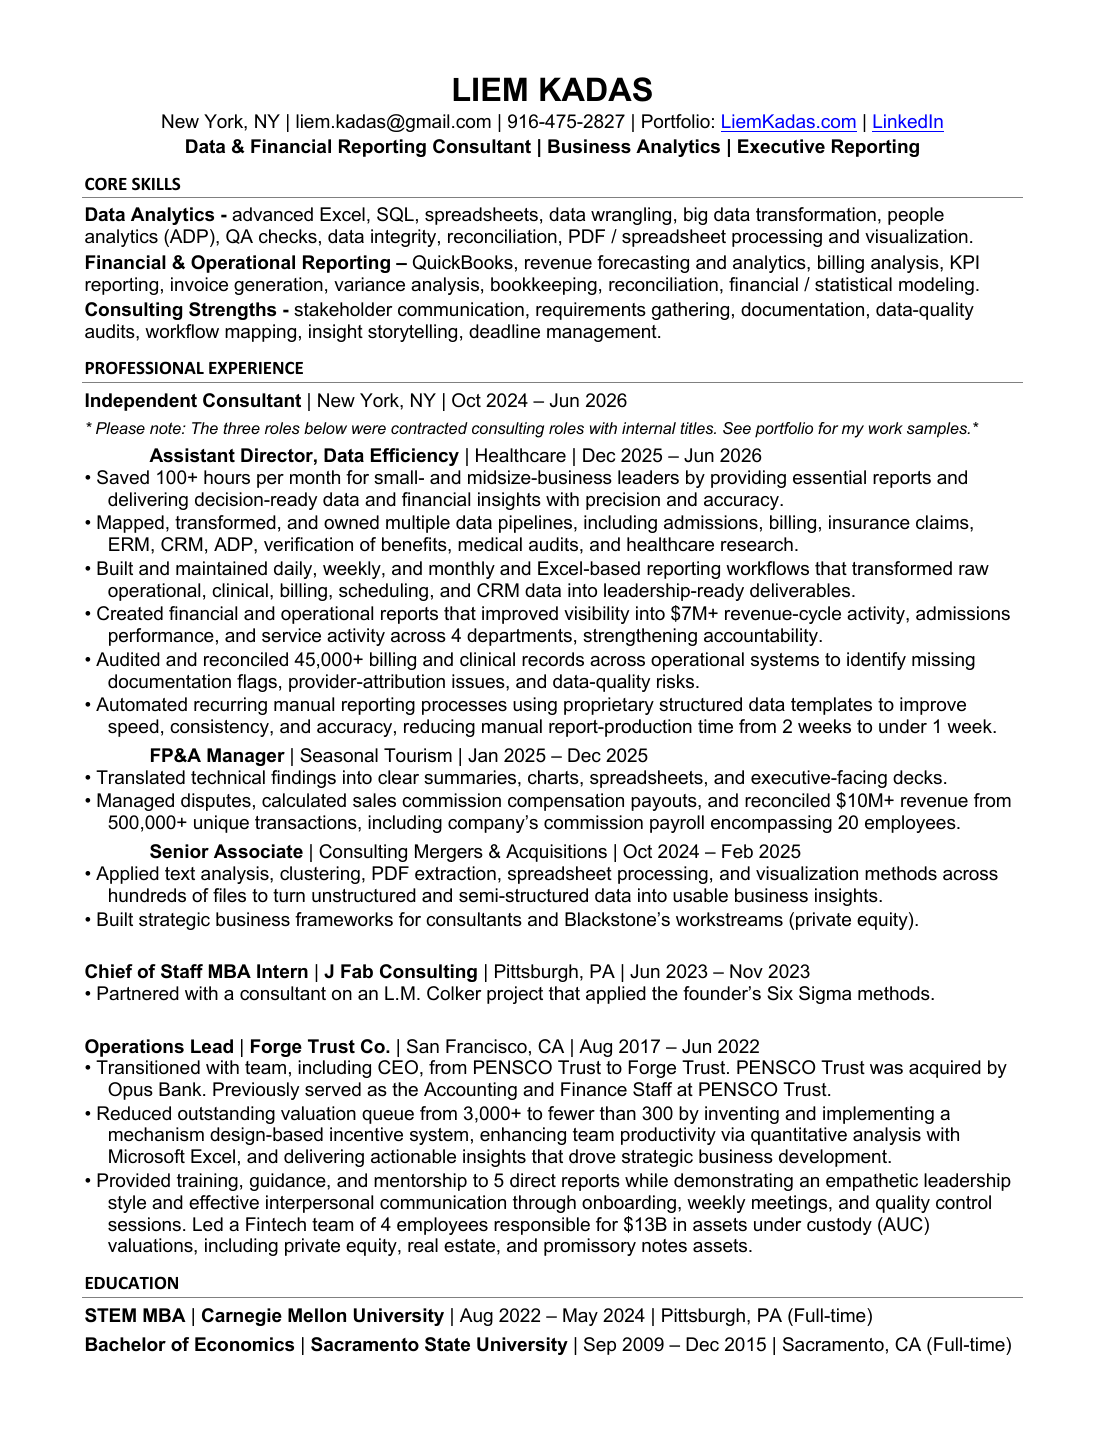
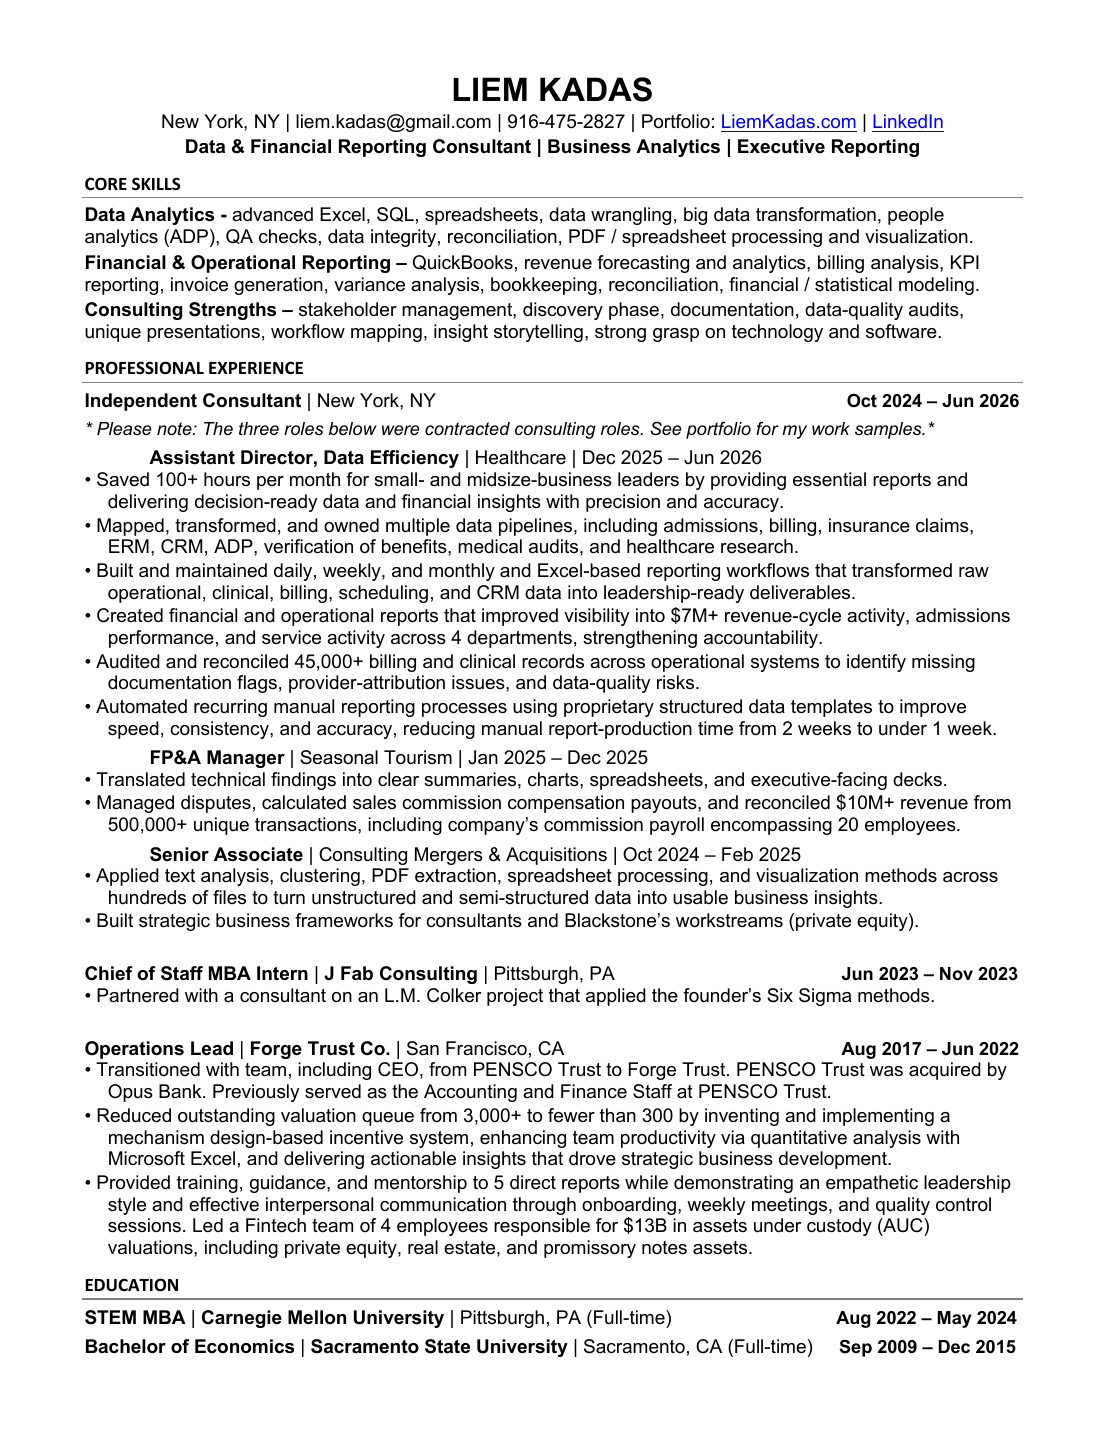
Update portfolio resume

Changed region(s): [[0.0923, 0.2769, 0.9231, 0.6462], [0.0615, 0.6769, 0.9231, 0.9538], [0.0923, 0.2154, 0.8615, 0.2462]]

diff --git a/site-data.js b/site-data.js
@@ -119,9 +119,9 @@ window.siteData = {
     title: "Liem's Resume",
     description:
       "A concise view of my professional background, operating experience, and data-focused service profile.",
-    pdf: "assets/pdfs/liem-kadas-resume.pdf?v=20260812-1",
-    preview: "assets/previews/resume.png?v=20260812-1",
-    pages: ["assets/pdf-pages/resume-20260708/page-1.png?v=20260812-1"],
+    pdf: "assets/pdfs/liem-kadas-resume.pdf?v=20260813-1",
+    preview: "assets/previews/resume.png?v=20260813-1",
+    pages: ["assets/pdf-pages/resume-20260708/page-1.png?v=20260813-1"],
     button: "Open Resume",
     accent: "blue",
   },

diff --git a/index.html b/index.html
@@ -216,7 +216,7 @@
       </div>
     </div>
 
-    <script src="site-data.js?v=20260812-1"></script>
+    <script src="site-data.js?v=20260813-1"></script>
     <script src="script.js?v=20260812-2"></script>
   </body>
 </html>
